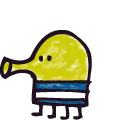
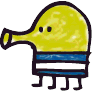
size fix

diff --git a/JS-Projects/TS-Assignment-4/doodle-jump/src/constants.ts b/JS-Projects/TS-Assignment-4/doodle-jump/src/constants.ts
@@ -14,8 +14,8 @@ type player = {
 };
 
 export const PLAYER_DIMENSIONS: player = {
-  PLAYER_HEIGHT: 80,
-  PLAYER_WIDTH: 80,
+  PLAYER_HEIGHT: 50,
+  PLAYER_WIDTH: 50,
 };
 
 type platform = {
